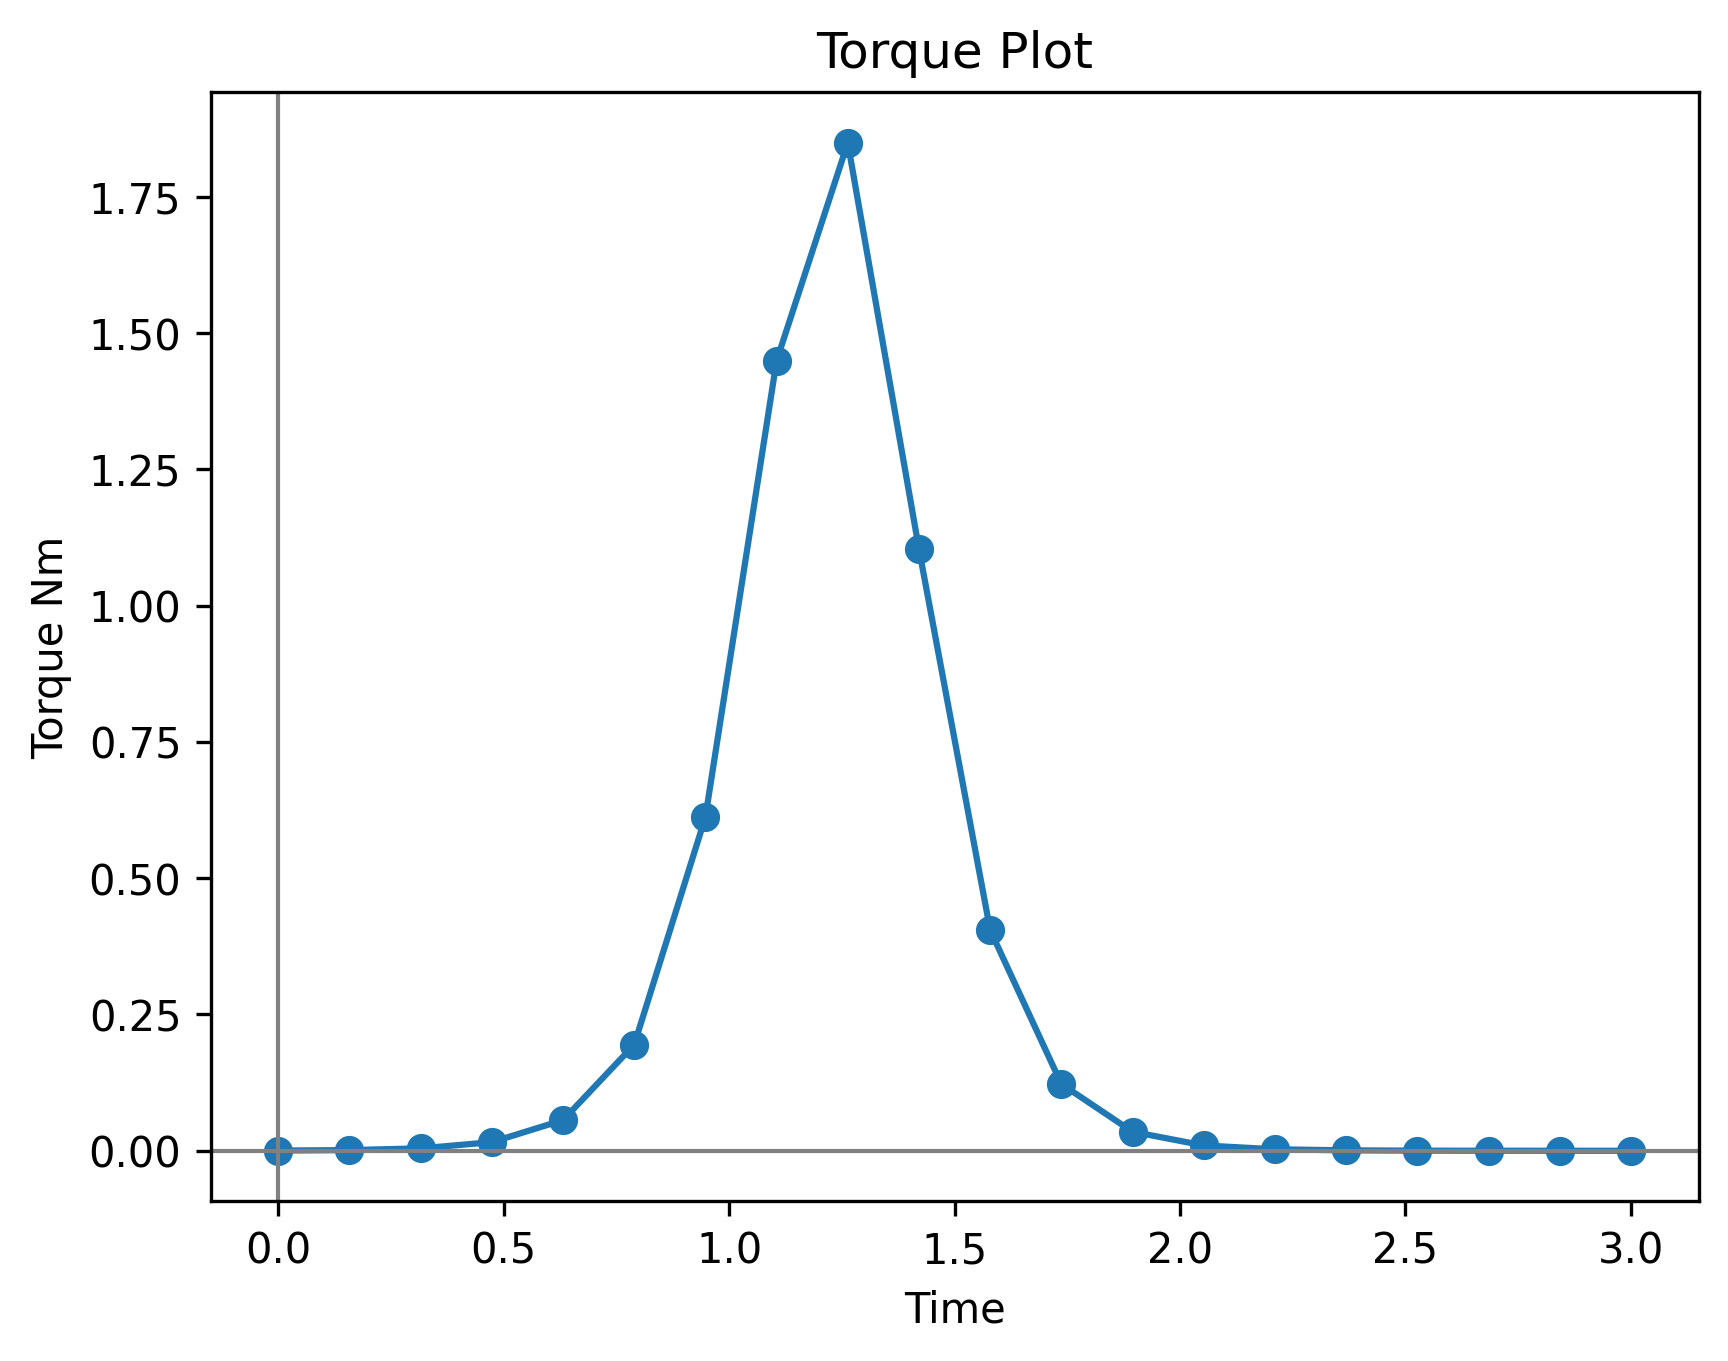
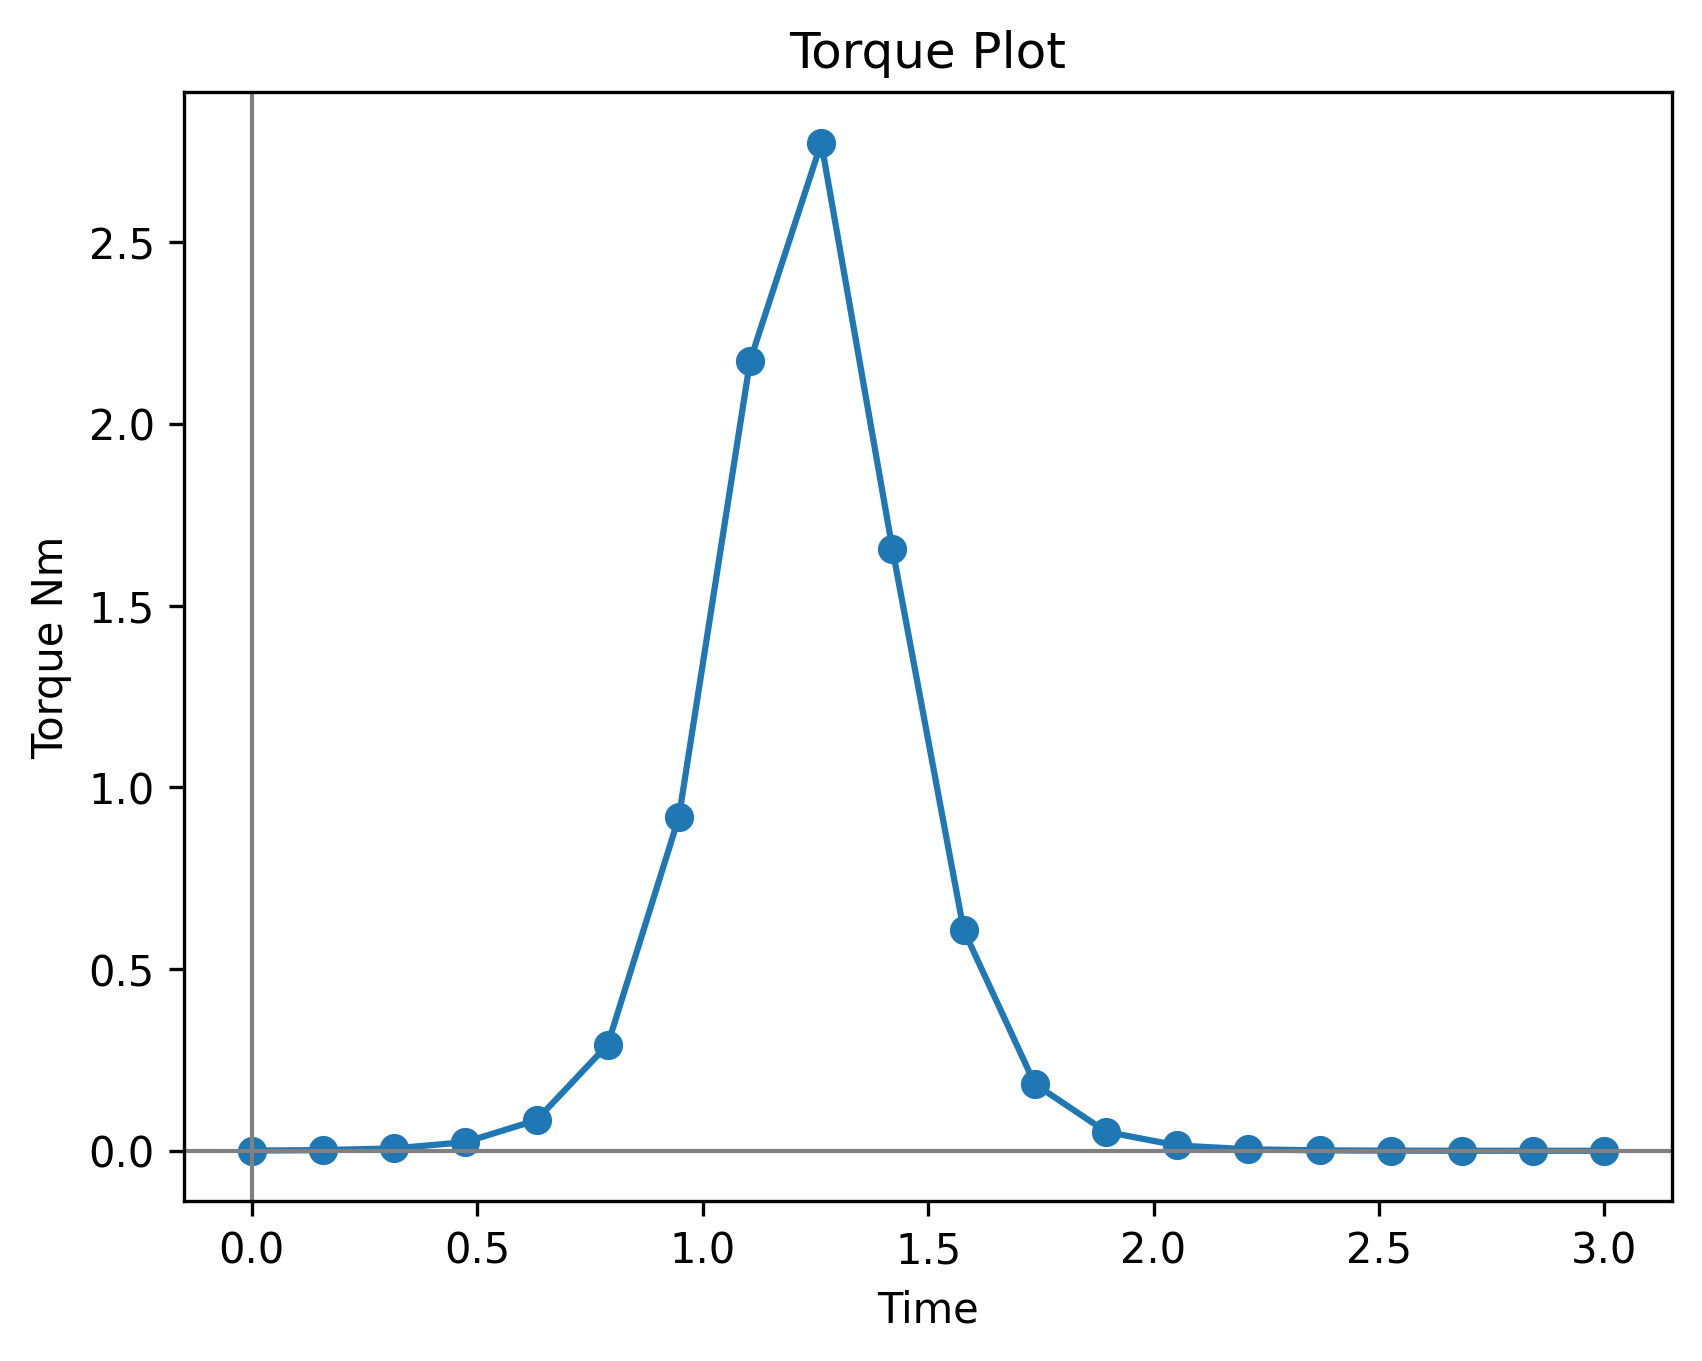
code changes

diff --git a/Model_1/main.py b/Model_1/main.py
@@ -48,10 +48,24 @@ time_scale = 3.0/2.0
 
 #****************sit to stand stuff****************#
 def angular_velocity_sts(x):
-    d_to_r = math.pi/180.0
-    t_old = (3.0/2.0)*x
-    omega = (d_to_r*107.478)*((1/np.cosh(((t_old)-1.85)/0.37))**2)
-    return omega
+    #d_to_r = math.pi/180.0
+    #t_old = (3.0/2.0)*x
+    #omega = (d_to_r*107.478)*((1/np.cosh(((t_old)-1.85)/0.37))**2)
+    #return omega
+    # time scaling for 2-second STS
+    t_old = (3.0/2.0) * x
+
+    # sech^2() term for the derivative
+    u = (t_old - 1.85) / 0.37
+
+    # derivative of B*tanh(u) = (B/D) * sech^2(u)
+    omega_deg = (39.77 / 0.37) * (1 / np.cosh(u))**2   # deg/s
+
+    # convert to rad/s
+    omega_rad = omega_deg * (math.pi / 180.0)
+
+    # chain rule: dθ_new/dt = dθ_old/dt_old * dt_old/dt
+    return (3.0/2.0) * omega_rad
 def angle_sts_fast(t):
     t_old = time_scale * t
     return 141.33 + 39.77 * np.tanh((t_old - 1.85) / 0.37)
@@ -93,7 +107,7 @@ print(c)
 def torque_function(x):
     if max_torque == None:
         raise ValueError("max_torque threshold is not set!")
-    return a*(x**2) + (b*x) + c if x <= max_torque else 0
+    return a*(x**2) + (b*x) + c #if x <= max_torque else 0
 def power_sts(x):
     t = torque_function(x)
     av = angular_velocity_sts(x)
